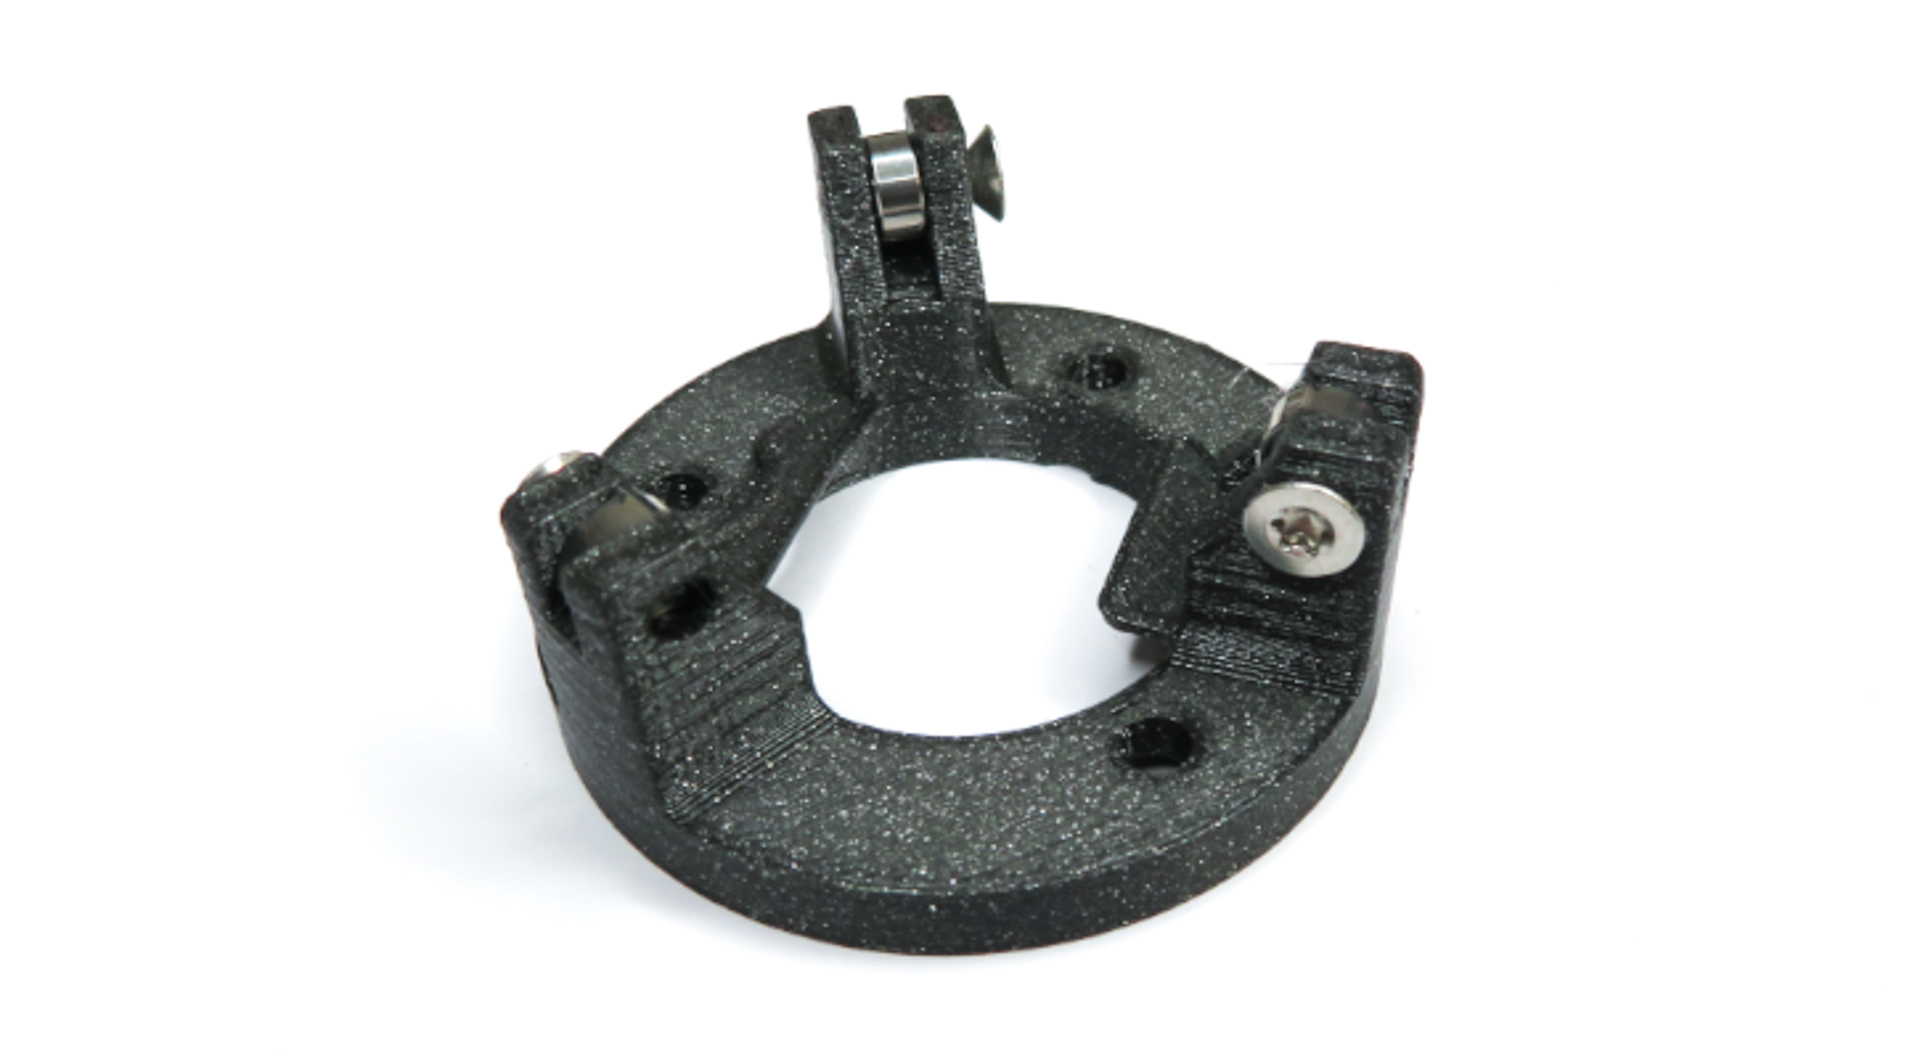
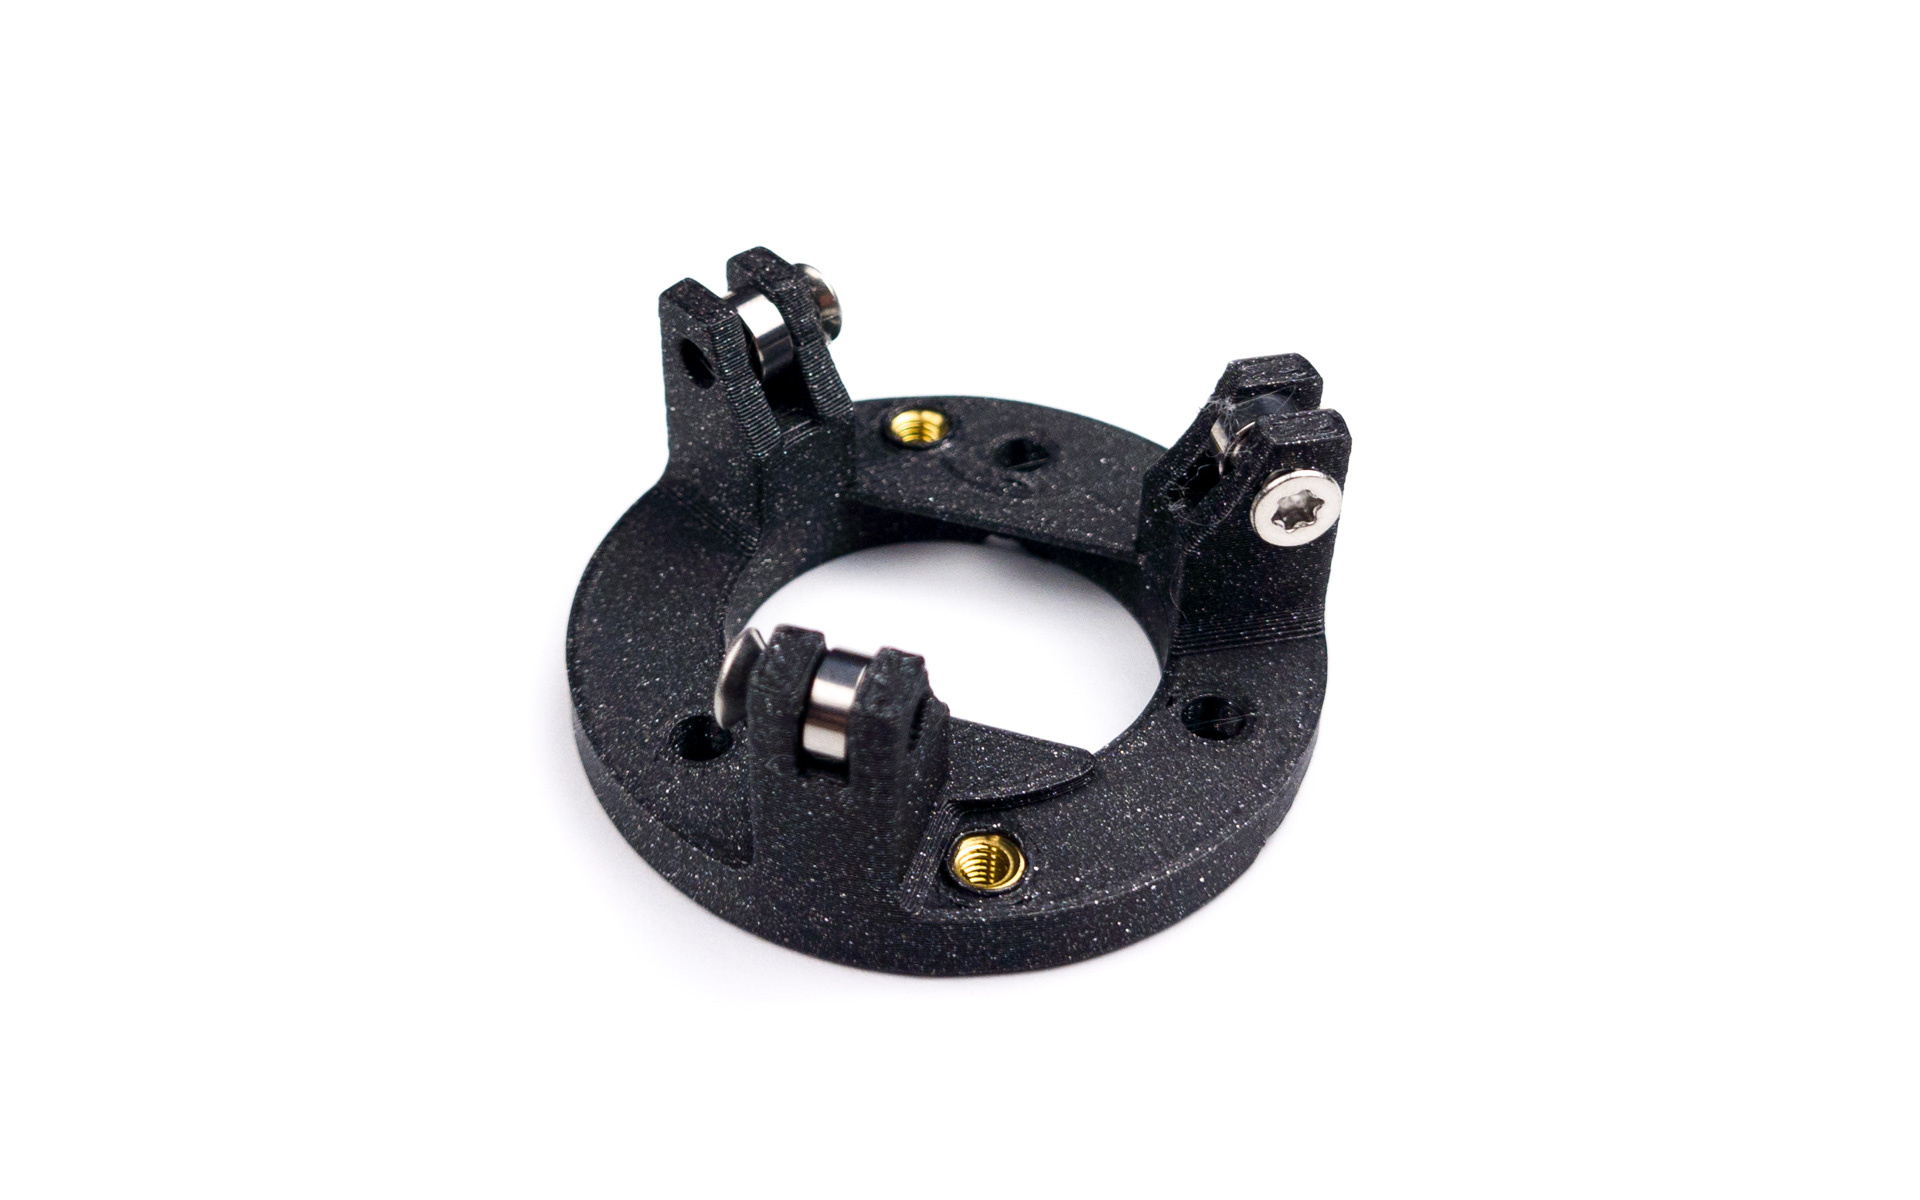
cnano sensor instructions

Changed region(s): [[0.25, 0.0935, 0.75, 0.9348]]

diff --git a/_includes/default.html b/_includes/default.html
@@ -1,0 +1,43 @@
+---
+layout: table_wrappers
+---
+
+<!DOCTYPE html>
+
+<html lang="{{ site.lang | default: 'en-US' }}">
+{% include head.html %}
+<body>
+  <a class="skip-to-main" href="#main-content">Skip to main content</a>
+  {% include icons/icons.html %}
+  {% include components/sidebar.html %}
+  <div class="main" id="top">
+    {% include components/header.html %}
+    <div class="main-content-wrap">
+      {% include components/breadcrumbs.html %}
+      <div id="main-content" class="main-content">
+        <main>
+          {% if site.heading_anchors != false %}
+            {% include vendor/anchor_headings.html html=content beforeHeading="true" anchorBody="<svg viewBox=\"0 0 16 16\" aria-hidden=\"true\"><use xlink:href=\"#svg-link\"></use></svg>" anchorClass="anchor-heading" anchorAttrs="aria-labelledby=\"%html_id%\"" %}
+          {% else %}
+            {{ content }}
+          {% endif %}
+          
+          {% include post-nav.html footer=true %}
+
+          {% if page.has_children == true and page.has_toc != false %}
+            {% include components/children_nav.html %}
+          {% endif %}
+        </main>
+        {% include components/footer.html %}
+      </div>
+    </div>
+    {% if site.search_enabled != false %}
+      {% include components/search_footer.html %}
+    {% endif %}
+  </div>
+
+  {% if site.mermaid %}
+    {% include components/mermaid.html %}
+  {% endif %}
+</body>
+</html>

diff --git a/bg_cnano/11sensor_assembly.md b/bg_cnano/11sensor_assembly.md
@@ -122,6 +122,14 @@ Reinstall the lens:
 
 # Installing the 3d holder assembly
 
+
+## Top part
+
+![](../assets/pics/guides/cnano/52.jpg)
+
+**For the following step, please prepare:**
+- top sensor assembly
+
 Slide the left side of the top sensor assembly into the case:
 
 ![](../assets/pics/guides/cnano/48.jpg)
@@ -130,34 +138,40 @@ Push in the right part:
 
 ![](../assets/pics/guides/cnano/49.jpg)
 
-## Top part
-
-- Insert the top sensor holder assembly into the case
-- The top sensor holder assembly has a specific way of being inserted
-- Locate the side with a cut part
-- Install it from the top of the keyboard, by pushing in the opposite side first. Use the picture below to check correct insertion
-
-![](../assets/pics/guides/charybdis/57.jpg)
-
-Push in the other side. It will scrap a little bit against the case.
-
-![](../assets/pics/guides/charybdis/58.jpg)
-
 
 ## Bottom part
 
 {: .tip }
 Depending on your kit, the bottom housing might look slightly different. Install the screws to match the picture below.
 
-- Insert the bottom part of the assembly from under the case
+![](../assets/pics/guides/cnano/55.jpg)
+
+**For the following step, please prepare:**
+- right keyboard assembly
+- bottom sensor assembly
+- m3 screw (x2)
+
+Install the bottom sensor assembly:
 - Screw in the 3 screws
+- **Make sure the the part is oriented towards the keyboard.** Use the picture below for reference
 - Make sure it's tight, but do not overtighten - you might damage the print
 - The whole assembly should not move at all
 
-![](../assets/pics/guides/charybdis/50.jpg)
+![](../assets/pics/guides/cnano/51.jpg)
 
 
-# Installing the sensor PCB
+# Installing the sensor PCB and protective cover    
+
+In this final step, we will screw in the sensor PCB and its protective cover.
+
+![](../assets/pics/guides/cnano/56.jpg)
+
+**For the following step, please prepare:**
+- right keyboard assembly
+- sensor cover
+- m3 screw (x2)
+
+Install the sensor PCB and cover:
 
 - Install the sensor PCB on top of the holder, aligning the two holes of the PCB with the two holes of the holder
 - Screw in the sensor PCB using 2 M3 torx screws
